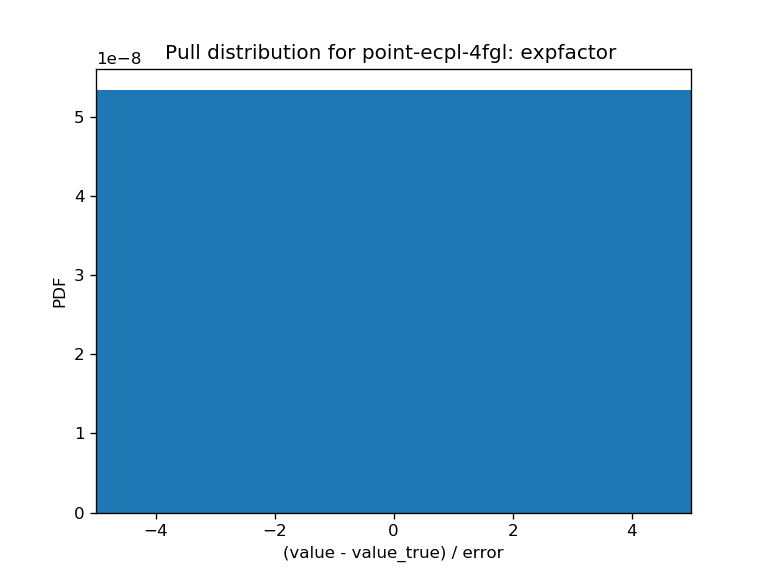
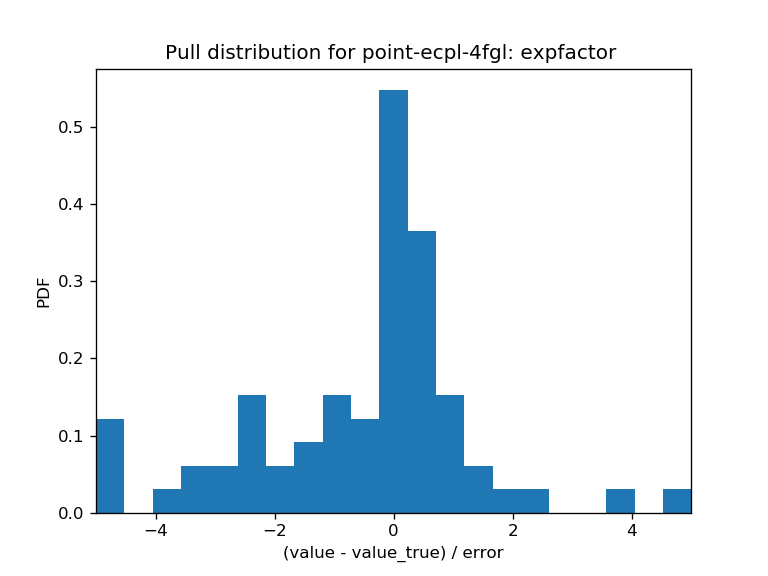
Fixing a bug in the pull-distribution plots

diff --git a/validation/event-sampling/make_2.py b/validation/event-sampling/make_2.py
@@ -36,7 +36,7 @@ AVAILABLE_MODELS = ["point-pwl", "point-ecpl", "point-log-parabola",
                     "point-pwl2", "point-ecpl-3fgl", "point-ecpl-4fgl",
                     "point-template", "diffuse-cube",
                     "disk-pwl", "gauss-pwl",
-                    "gauss-pwlsimple", "point-pwlsimple", "disk-pwlsimple"]
+                    "gauss-pwlsimple", "point-pwlsimple", "disk-pwlsimple", "point-pwltest"]
 
 DPI = 120
 
@@ -130,11 +130,17 @@ def all_cmd(model, obs_ids, obs_all, simple, core):
     else:
         prepare_dataset(filename_dataset)
 
+    dataset = MapDataset.read(filename_dataset)
+
     if obs_all:
         for model in models:
-            simulate_events(filename_model=filename_model, filename_dataset=filename_dataset, nobs=obs_ids)
             obs_ids = f"0:{obs_ids}"
             obs_ids = parse_obs_ids(obs_ids, model)
+            with multiprocessing.Pool(processes=core) as pool:
+                args = zip(repeat(filename_model), repeat(filename_dataset), repeat(dataset), obs_ids)
+                pool.starmap(simulate_events, args)
+
+#            simulate_events(filename_model=filename_model, filename_dataset=filename_dataset, nobs=obs_ids)
             with multiprocessing.Pool(processes=core) as pool:
                 args = zip(repeat(filename_model), repeat(filename_dataset), obs_ids, repeat(binned), repeat(simple))
                 results = pool.starmap(fit_model, args)
@@ -212,13 +218,35 @@ def simulate_events_cmd(model, nobs):
         models = [model]
 
     filename_dataset = get_filename_dataset(LIVETIME)
+    dataset = MapDataset.read(filename_dataset)
+
+    obs_ids = f"0:{obs_ids}"
+    obs_ids = parse_obs_ids(obs_ids, model)
 
     for model in models:
         filename_model = BASE_PATH / f"models/{model}.yaml"
-        simulate_events(filename_model=filename_model, filename_dataset=filename_dataset, nobs=nobs)
+        with multiprocessing.Pool(processes=core) as pool:
+            args = zip(repeat(filename_model), repeat(filename_dataset), repeat(dataset), obs_ids)
+            pool.starmap(simulate_events, args)
+
+#        simulate_events(filename_model=filename_model, dataset=dataset, obs_id=nobs)
 
 
-def simulate_events(filename_model, filename_dataset, nobs):
+#def simulate_parallel(obs_id, POINTING, LIVETIME, irfs, dataset, filename_dataset, filename_model):
+##    for obs_id in np.arange(nobs):
+#        observation = Observation.create(
+#                                     obs_id=obs_id, pointing=POINTING, livetime=LIVETIME, irfs=irfs
+#                                )
+#
+#        events = sampler.run(dataset, observation)
+#
+#        path = get_filename_events(filename_dataset, filename_model, obs_id)
+#        log.info(f"Writing {path}")
+#        path.parent.mkdir(exist_ok=True, parents=True)
+#        events.table.write(str(path), overwrite=True)
+
+
+def simulate_events(filename_model, filename_dataset, dataset, obs_id):
     """Simulate events for a given model and dataset.
 
     Parameters
@@ -233,8 +261,8 @@ def simulate_events(filename_model, filename_dataset, nobs):
     log.info(f"Reading {IRF_FILE}")
     irfs = load_cta_irfs(IRF_FILE)
 
-    log.info(f"Reading {filename_dataset}")
-    dataset = MapDataset.read(filename_dataset)
+#    log.info(f"Reading {filename_dataset}")
+#    dataset = MapDataset.read(filename_dataset)
 
     log.info(f"Reading {filename_model}")
     models = Models.read(filename_model)
@@ -243,17 +271,24 @@ def simulate_events(filename_model, filename_dataset, nobs):
     
     sampler = MapDatasetEventSampler(random_state=0)
 
-    for obs_id in np.arange(nobs):
-        observation = Observation.create(
-            obs_id=obs_id, pointing=POINTING, livetime=LIVETIME, irfs=irfs
-        )
+#    obs_id = np.arange(nobs)
+#    with multiprocessing.Pool(processes=core) as pool:
+#        args1 = zip(obs_id, repeat(POINTING), repeat(LIVETIME), repeat(irfs),
+#                    repeat(dataset), repeat(filename_dataset), repeat(filename_model))
+#        pool.starmap(simulate_parallel, args1)
 
-        events = sampler.run(dataset, observation)
 
-        path = get_filename_events(filename_dataset, filename_model, obs_id)
-        log.info(f"Writing {path}")
-        path.parent.mkdir(exist_ok=True, parents=True)
-        events.table.write(str(path), overwrite=True)
+#    for obs_id in np.arange(nobs):
+    observation = Observation.create(
+        obs_id=obs_id, pointing=POINTING, livetime=LIVETIME, irfs=irfs
+    )
+
+    events = sampler.run(dataset, observation)
+
+    path = get_filename_events(filename_dataset, filename_model, obs_id)
+    log.info(f"Writing {path}")
+    path.parent.mkdir(exist_ok=True, parents=True)
+    events.table.write(str(path), overwrite=True)
 
 
 def parse_obs_ids(obs_ids_str, model):
@@ -604,8 +639,7 @@ def plot_pull_distribution(model_name, binned=False):
 
         pull = (values - par.value) / values_err
 
-#        print("Number of fits beyond 5 sigmas: ",(np.where( (pull<-5) )))
-        plt.hist(pull, bins=21, normed=True, range=(-5,5))
+        plt.hist(pull, bins=21, normed=True)
         plt.xlim(-5, 5)
         plt.xlabel("(value - value_true) / error")
         plt.ylabel("PDF")
